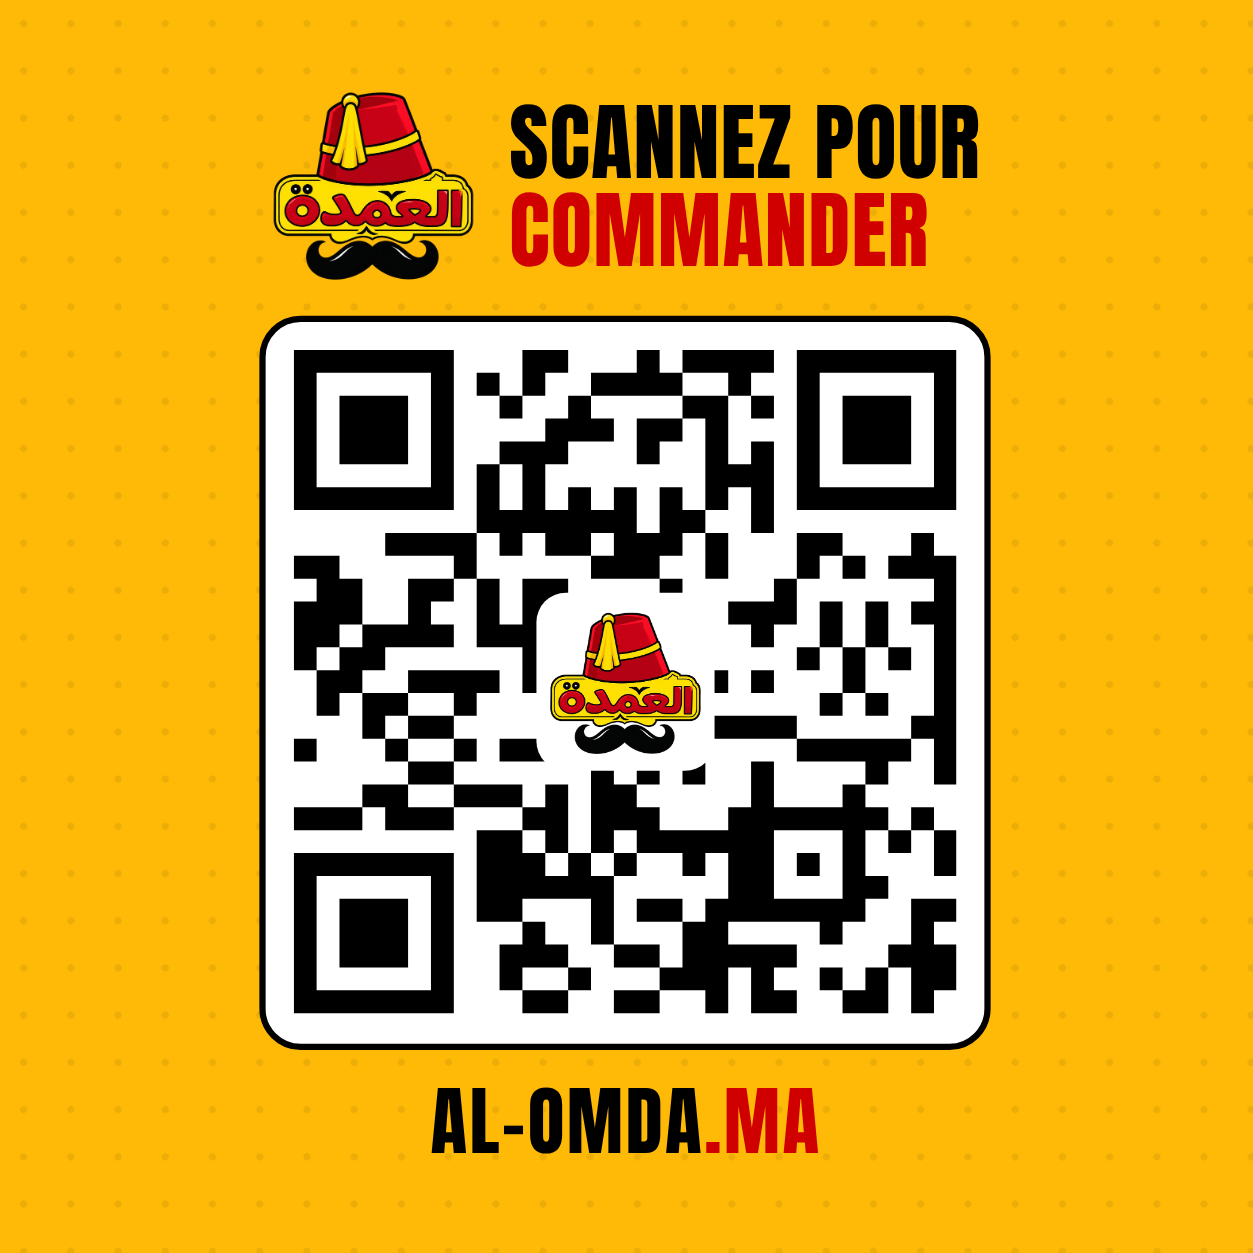
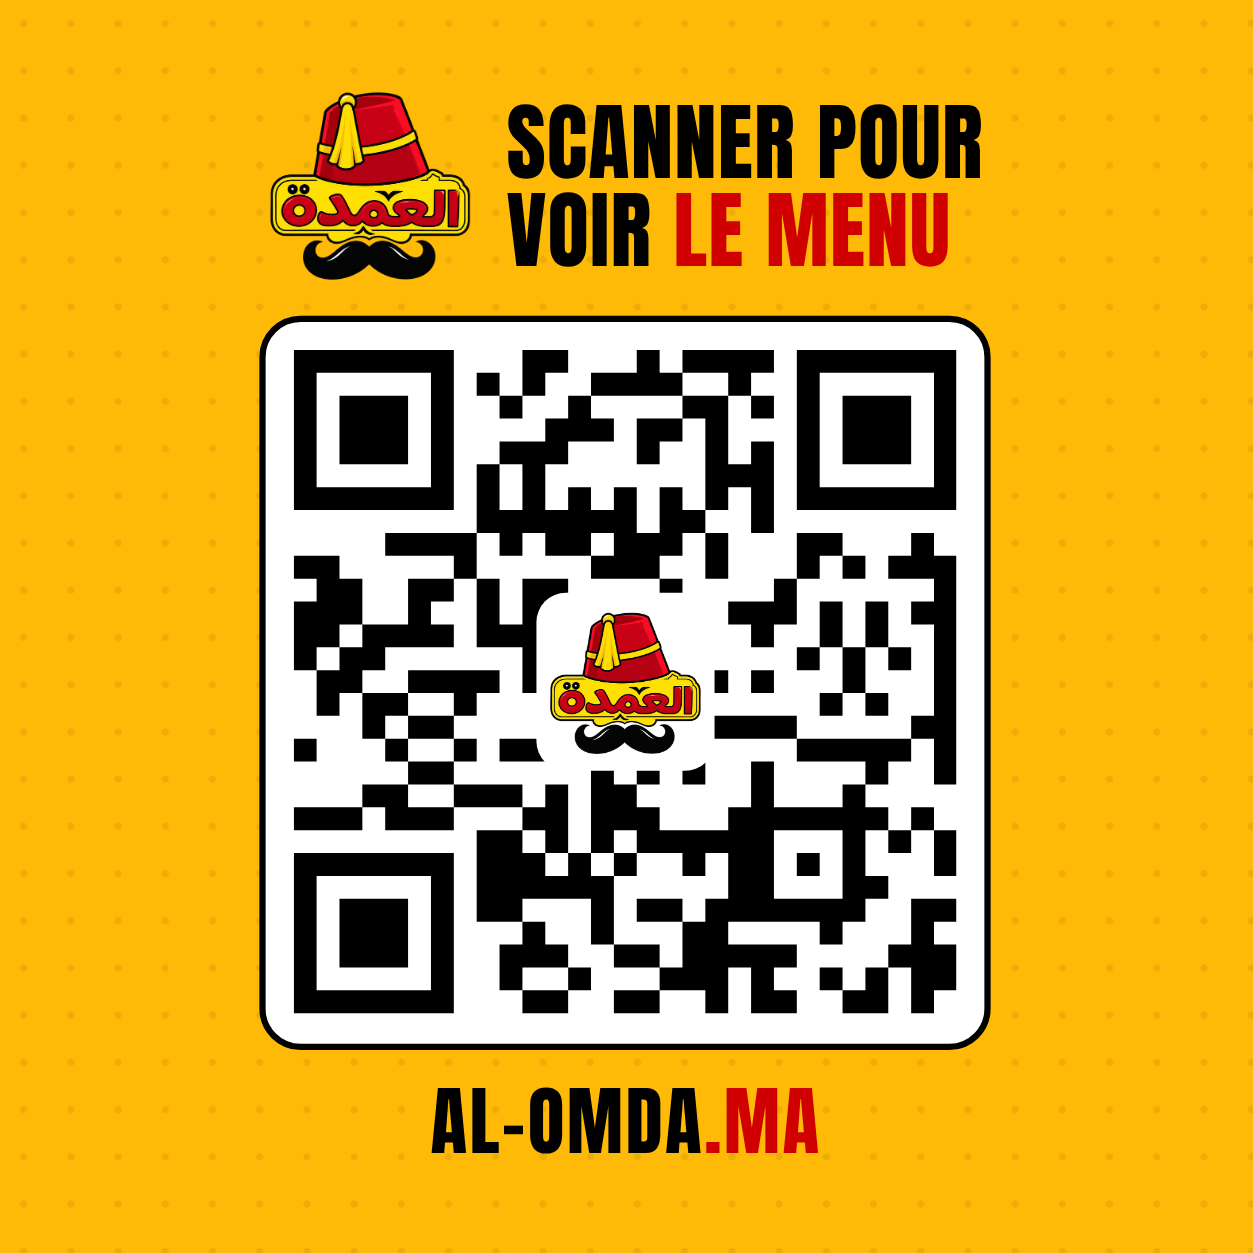
Online menu sticker: "Scanner pour voir le menu"
Claude-Session: https://claude.ai/code/session_01WM1amuEjQLb71SowS4WEYK

Changed region(s): [[0.2179, 0.0623, 0.7781, 0.2179]]

diff --git a/print/menu-qr-online/sticker.html b/print/menu-qr-online/sticker.html
@@ -26,7 +26,7 @@
   <div class="safe">
     <div class="top">
       <img class="logo" src="../../assets/logo.png" alt="">
-      <div class="title">Scannez pour<br><em>commander</em></div>
+      <div class="title">Scanner pour<br>voir <em>le menu</em></div>
     </div>
     <div class="qr-wrap"><svg xmlns="http://www.w3.org/2000/svg" viewBox="0 0 29 29" class="segno"><path class="qrline" stroke="#000" d="M0 0.5h7m3 0h2m3 0h1m1 0h4m1 0h7m-29 1h1m5 0h1m1 0h1m1 0h1m2 0h4m2 0h1m2 0h1m5 0h1m-29 1h1m1 0h3m1 0h1m2 0h1m2 0h1m4 0h2m1 0h1m1 0h1m1 0h3m1 0h1m-29 1h1m1 0h3m1 0h1m4 0h3m1 0h2m1 0h1m3 0h1m1 0h3m1 0h1m-29 1h1m1 0h3m1 0h1m2 0h3m3 0h1m2 0h1m1 0h1m1 0h1m1 0h3m1 0h1m-29 1h1m5 0h1m1 0h1m1 0h1m7 0h3m1 0h1m5 0h1m-29 1h7m1 0h1m1 0h1m1 0h1m1 0h1m1 0h1m1 0h1m1 0h1m1 0h7m-21 1h7m1 0h2m2 0h1m-17 1h4m1 0h1m1 0h2m1 0h3m1 0h1m3 0h2m3 0h1m-28 1h2m5 0h1m5 0h3m2 0h1m3 0h1m1 0h1m1 0h3m-28 1h2m2 0h2m1 0h1m1 0h2m4 0h1m4 0h1m6 0h1m-29 1h3m2 0h1m2 0h1m1 0h2m1 0h1m2 0h1m2 0h3m1 0h1m1 0h1m1 0h2m-29 1h2m1 0h4m1 0h3m1 0h2m6 0h1m2 0h1m1 0h1m2 0h1m-29 1h1m1 0h2m6 0h2m1 0h1m2 0h1m5 0h1m1 0h1m1 0h1m1 0h1m-28 1h2m2 0h4m1 0h1m2 0h1m1 0h4m1 0h1m3 0h1m3 0h1m-28 1h1m1 0h2m2 0h1m3 0h2m2 0h1m1 0h1m5 0h1m1 0h1m2 0h1m-26 1h1m1 0h2m5 0h4m1 0h5m5 0h2m-29 1h1m3 0h1m2 0h1m1 0h2m4 0h1m1 0h1m4 0h5m1 0h1m-24 1h2m6 0h1m1 0h1m1 0h1m2 0h1m4 0h1m2 0h1m-26 1h2m2 0h3m1 0h1m1 0h2m5 0h1m3 0h1m-25 1h3m1 0h3m3 0h2m1 0h3m3 0h7m1 0h1m-20 1h2m1 0h1m1 0h1m1 0h6m3 0h1m1 0h1m1 0h1m-29 1h7m1 0h3m1 0h1m1 0h1m2 0h1m1 0h2m1 0h1m1 0h1m3 0h1m-29 1h1m5 0h1m1 0h6m5 0h2m3 0h2m-26 1h1m1 0h3m1 0h1m1 0h2m3 0h1m1 0h2m1 0h7m2 0h2m-29 1h1m1 0h3m1 0h1m3 0h1m2 0h1m3 0h2m4 0h1m3 0h1m-28 1h1m1 0h3m1 0h1m2 0h3m2 0h2m1 0h5m4 0h3m-29 1h1m5 0h1m2 0h1m2 0h1m3 0h3m1 0h1m2 0h1m1 0h1m1 0h2m-29 1h7m3 0h2m2 0h2m2 0h1m1 0h2m2 0h2m1 0h1"/></svg><div class="qr-logo"><img src="../../assets/logo.png" alt=""></div></div>
     <div class="url">AL-OMDA<em>.MA</em></div>
